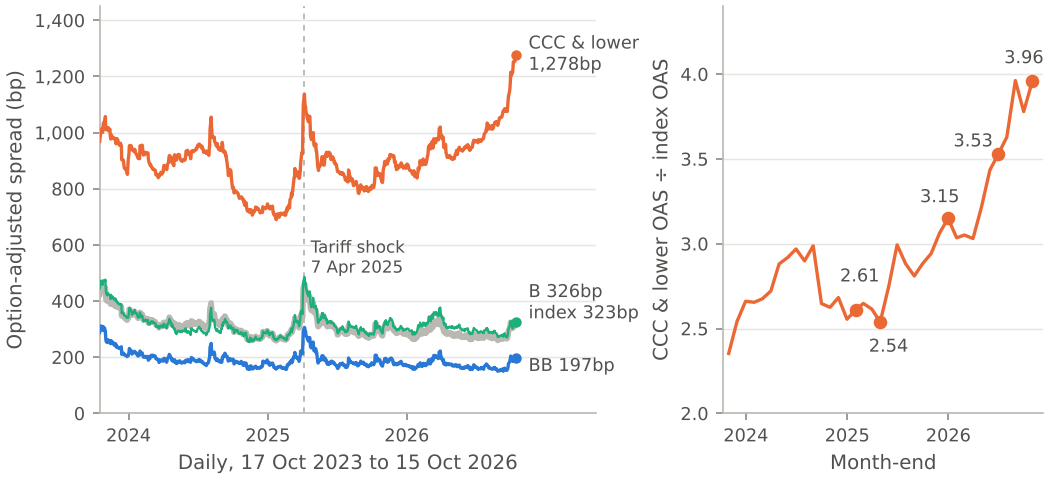
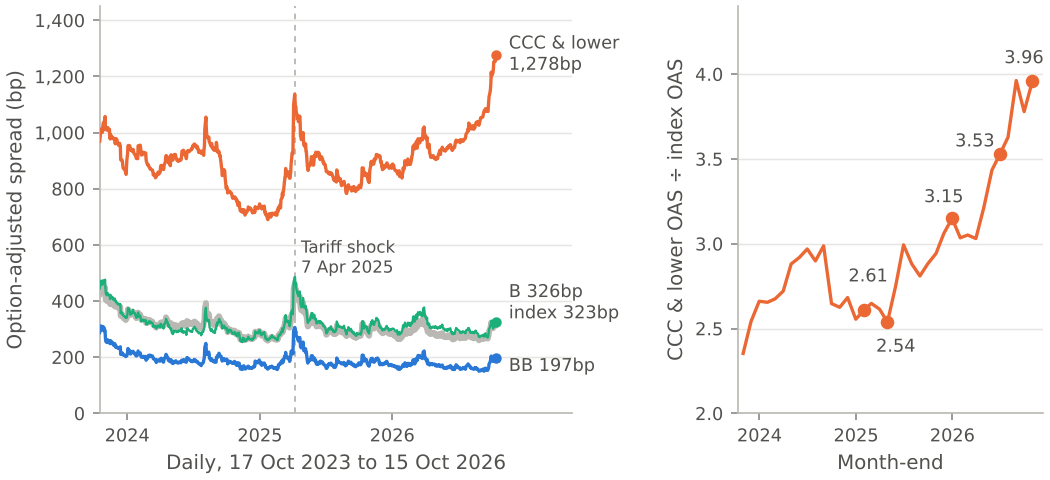
Research batch A complete; TOC proposals from research collected in state/toc_proposals_ed2.md
Claude-Session: https://claude.ai/code/session_01PHHQVL5vNoxjdDFeTkxsPq

diff --git a/tools/figures/ch11.py b/tools/figures/ch11.py
@@ -307,6 +307,7 @@ def fig_tier_oas():
         assert abs(ratio[k].iloc[0] - v) < 0.006, (k, ratio[k].iloc[0], v)
 
     fig, (a, b) = new_figure("wide", ncols=2, gridspec_kw={"width_ratios": [1.55, 1]})
+    fig.get_layout_engine().set(wspace=0.09)
 
     # left: daily OAS by tier
     a.plot(df.index, df.HY, color=NEUTRAL, linewidth=2.8, zorder=2)

diff --git a/book_src/08_ch08b_the_risk_model_and_the_limit_sheet.md b/book_src/08_ch08b_the_risk_model_and_the_limit_sheet.md
@@ -298,3 +298,83 @@ The backtest runs bucket by bucket as well as for the whole book: realized volat
 A failing backtest licenses a change, and the change has a procedure: a written finding, a challenger model run in shadow beside the champion, a comparison on data the challenger was not tuned on, and a promotion through the same rings and canaries that §27.8 uses for code. What the failure does not license is retuning the model in the drawdown that produced the exceptions. Two years earlier, in the week Larkspur Foam's loan fell to 84 on the drop-down headline (Chapter 13), a junior quant at the desk had shortened the EWMA half-life from 60 days to 15 on the third day of losses, "to make it more responsive." The re-run backtest was immaculate. It had been tuned on the very exceptions it was then graded on, which is look-ahead in a lab coat, and the shorter half-life spent the following quiet quarter overstating risk by 40% and squeezing the desk out of positions it would have been paid to hold. Mags's verdict at the time was the shortest model review in the desk's history: "You wrote the exam and then you graded it."
 
 *Builds on:* §7-B.2 (likelihood ratios), §7-B.5 (EWMA half-lives), §27.8 (deployment discipline). *Used in:* §8B.9 (the backtest line on the limit sheet), §28.9 (the dashboard's model-health panel).
+
+## 8B.9 The Limit Sheet
+
+The risk committee met on the first Monday of November, and Mags prepared Theo for it the way she once prepared junior lawyers for a confirmation hearing: by telling him about the worst one she knew.
+
+### Case Study: The Whale and the Five Limits (JPMorgan's Chief Investment Office, 2012)
+
+"Everything you need to know about limit sheets," she said, "is in a Senate report about a bank that had a perfectly good one."
+
+The book was the Synthetic Credit Portfolio of JPMorgan Chase's Chief Investment Office, a portfolio of credit index and tranche positions originally meant to hedge the bank's credit exposure. In the first quarter of 2012 its traders tripled its net notional, from \$51bn to \$157bn, including at least \$62bn in a US investment-grade credit index, \$71bn in a European investment-grade index and \$22bn in a US high-yield index (Senate Permanent Subcommittee on Investigations, *JPMorgan Chase Whale Trades: A Case History of Derivatives Risks and Abuses*, staff report, 15 Mar 2013, PDF p.12). The portfolio had five risk metrics with limits or advisories attached: VaR, CS01, a credit-spread-widening-of-10% measure called CSW10%, stress-loss limits and stop-loss advisories. In the first three months of the year it breached all five, and from 1 January to 30 April the limits and advisories were breached more than 330 times (PDF p.15).
+
+Theo, who had been reading this chapter's drafts for a month, recognized every line. CS01 is his CS01 ladder. CSW10% is his DTS cell limit, a loss for a 10% relative widening, under another name. The stress limit is his stress library. Only the jump line is missing, and the report notes something close to it: concentration limits, "commonplace for the same instruments" at the bank's investment bank, were absent at the CIO (PDF p.15).
+
+"So the sheet was fine," he said. "What went wrong?"
+
+"Everything that happens *after* the sheet," Mags said.
+
+In January 2012 the portfolio breached the VaR limit of both the CIO and the bank as a whole for four days, a breach reported to the bank's most senior management (PDF p.15). While it was in breach, an alternative VaR model was "hurriedly adopted," approved on 30 January, and it immediately cut the portfolio's VaR by 50%, from \$132mm to \$66mm (PDF pp.16, 188). The breach ended. The positions did not. A recommendation had been made to lower the CIO's VaR limit from \$95mm to \$70mm when the new model went live; the report found that it was not done, and summarized the result in a sentence Mags read aloud: "rather than remove the offending credit derivative positions to reduce the amount of risk in the SCP, JPMorgan Chase removed the brakes instead" (PDF p.191). The new model, it later emerged, ran on spreadsheets fed by hand and contained "calculation errors involving hazard rates and correlation estimates that improperly lowered the VaR results" (PDF p.194). On 10 May the bank revoked it and reinstated the old one, and the revised first-quarter VaR came out at \$129mm, twice what had first been reported (PDF pp.16, 21).
+
+The CS01 limit had a different fate. The portfolio exceeded it by 100% in January, by 270% in early February and by more than 1,000% by mid-April (PDF p.15). By 30 March it had been in breach for 59 trading days. On 17 April an automated end-of-day notice read, in full, "MtM cs bpv limit is in excession by 1074% and has been in excession for 71 days" (PDF p.211). A risk measure called the Comprehensive Risk Measure had warned in February of a possible \$6.3bn loss over a year; it was dismissed internally as "garbage" (PDF p.15). The report's verdict on the breaches as a group was that they "were largely ignored or ended by raising the relevant risk limit" (PDF p.15). The portfolio lost at least \$6.2bn in 2012 (PDF p.12).
+
+Kaz read the hazard-rate sentence twice. "They put the jump inside the spreadsheet," they said. "Hazards and correlations, hand-keyed, feeding a VaR. No separate layer, no backtest on the new model before it went live, and it was swapped in during the breach it was supposed to measure." They looked at the Larkspur half-life note still pinned above their monitor. "That's §8B.8 with ten figures."
+
+Ines put it as a hand. "Five tells, all showing, for four months. Nobody at the table folded. They changed the deck instead."
+
+What the desk took from the case is less a list of prohibitions than a description of what a limit is for. A limit is a pre-agreed conversation: it says which number, crossing which line, obliges which person to explain what to whom, by when. Its value is entirely in the conversation happening. A model change that halves the risk number is a limit change, whether or not anyone edits the limit, and so it goes to the same committee. A breach that lasts seventy-one days has stopped being a breach and become the new limit, decided by nobody. And an override is a loan of risk capacity, which is why on Theo's desk every override has a size, a reason, a name and an expiry date, and a second override of the same line in a quarter puts the line itself on the committee's agenda.
+
+### The sheet
+
+Here is the sheet Theo's desk runs, with the soft and hard thresholds that turn exposures into conversations *(illustrative levels for a \$400mm high-yield book)*.
+
+| Line | Measured as | Soft | Hard |
+| :--- | :--- | ---: | ---: |
+| DTS, each rating × sector cell | loss for a 10% relative widening of the cell, \$mm | 1.2 | 1.5 |
+| CS01 ladder (0–3y, 3–7y, 7y+) | \$k per bp of spread | 60 / 90 / 70 | 80 / 120 / 90 |
+| Key-rate DV01, net of hedges (2, 5, 10, 30y) | \$k per bp; a band around the target | ±15 | ±25 |
+| Issuer JTD, top ten | \$mm, by issuer rating | B 7.0, CCC 4.0 | B 9.0, CCC 5.5 |
+| ES 99%, 1-day and 10-day | \$mm, on the mixture (§8B.6) | 2.5 / 9.0 | 3.0 / 11.0 |
+| Stress loss | worst library scenario, Gaussian plus jump, \$mm | 15 | 20 |
+| Days to liquidate (§28.5) | days at 10% of average daily volume | 5 | 10 |
+| Share of an issue | % of the issue outstanding | 7.5% | 10% |
+| Backtest exceptions | count in 250 days at 99% | 5 | 10 |
+
+*Table 8-B.4. The limit sheet. A soft breach starts a written explanation from the PM by noon; a hard breach requires a reduction by the close or a written override, with an expiry date, from the risk function's delegated approver; anything open for three days escalates to the desk head and the chief risk officer's office.*
+
+Two rows carry ideas from earlier in the book. *Days to liquidate* is the 13-day model to the 13-week model's sibling, as Theo put it when he added a second file to the USB stick: a position of \$q$ in a bond that trades $\text{ADV}$ a day, sold at participation $\kappa$, takes $q/(\kappa\,\text{ADV})$ days to exit, and the limit bounds the forced-seller problem of §16.2 from the desk's own side. *Share of an issue* is the concentration limit the Whale did not have, and it bounds something no volatility measures: whether the desk *is* the market in a bond, in which case the mark is the desk's own opinion and the exit is a negotiation.
+
+ROBO had been asked, early in the project, to "set sensible limits." It set every line to the book's current exposure plus one dollar, which was sensible in the sense that the book was inside every limit at the moment of setting, and put the desk in breach on eleven lines by 9:32 a.m. the following day. The specification it got the second time, in §8B.11, says where each threshold comes from.
+
+The committee's first question that Monday was the one every risk committee asks. "Why is the ten-day ES 11% higher than on Friday, when the desk sold bonds on Friday?" Theo had the answer, because the model's change report had produced it at 7:30: on Friday evening one rating agency had completed a sector review of building products and downgraded twelve issuers, and the desk's rating rule (the middle of three agency ratings) had moved forty bonds from the B cells to the CCC cells. Every one of them now had a larger cell sensitivity, a higher idiosyncratic bucket and a tighter JTD limit. Nothing had traded. The book was riskier because the same bonds now meant something different, which is the DTS loading of §8B.2 working exactly as designed. The committee chair wrote one word on her pad, which Theo later learned was *good*.
+
+![Figure 8-B.3: Tuesday's risk report grown into the limit sheet: each line's exposure against its soft and hard thresholds, with the three breaches of the cold open marked and the forty-bond migration shown as the before-and-after change in the CCC cells. Illustrative.](assets/figures/ch08b_limit_sheet.png)
+
+*Builds on:* §4B.5 (CS01 and DV01), §16.2 (forced sellers), §21.4 (the OC test as a limit), §28.5 (days-to-liquidate). *Used in:* §28.9 (the dashboard's risk-versus-limits panel), Chapter 3-B (the 7:30 risk pack), Chapter 8-C.
+
+## 8B.10 When to Apply It, and When It Breaks
+
+A factor risk model is at its best on ordinary days in a book with many issuers, where its job is to say where the risk is and to stop the desk from building a concentration by accident. It is at its worst on the days it is most needed, and a seasoned risk manager reads it with four suspicions.
+
+The first is that correlations are regimes, not constants. The rate–spread correlation $\rho_{y,s}$ changed sign twice between 2021 and 2025 (§8.2, §8.7), and in April 2025 it changed sign twice in seven sessions. The model therefore takes $\rho_{y,s}$ as a regime input from the hidden Markov model of §12.4 rather than as one estimated number; where §12.5's covariance holds the rate–spread correlation at zero for a multi-asset book, this engine supplies the regime value instead. The second is that correlations rise together in exactly the stress the model was built for, which is why the stress library shocks factors jointly rather than trusting the covariance to do it.
+
+> **View From Another Seat.** *The dealer in March 2020.* A dealer's risk system sees the same failure from the other side of the trade. Describing March 2020 to analysts, Morgan Stanley's then chief financial officer said: "Historical relationships broke down and liquidity dried up. Clients reacted by reducing risk and raising cash" (Morgan Stanley first-quarter 2020 earnings call, 16 Apr 2020). For a dealer, broken relationships mean hedges that do not hedge and inventory that cannot be sold at the mark; for a buy-side desk, the same sentence means that the covariance estimated on calm years is a description of a market that no longer exists until the regime passes.
+
+The third suspicion is about inputs. Stale marks understate volatility, because a moving average moves less than the thing it averages, and the de-smoothing of §8.5 and §12.5 is part of the model, not an option. And the model is only as good as the security master (§27.3) and the corporate-actions feed (Appendix B, §B.16): a bond that was exchanged, tendered or called and is still in the master at its old terms will carry a loading, a DTS and a JTD for a claim that no longer exists.
+
+The fourth is numerical. A factor covariance with sixty factors can be nearly singular, and an optimizer fed such a matrix will find enormous positions that the matrix believes are riskless.
+
+> **Math, Gently.** *The condition number: how close a matrix is to dividing by zero.* A covariance matrix stretches some directions and squashes others; the condition number is the ratio of its largest stretch to its smallest. A value of 10 means every direction is roughly equally well measured. A value of 10 million means some combination of factors looks almost riskless, usually because the data cannot tell two factors apart, and anything that inverts the matrix will lean on that combination hard. Tiny example: two factors with correlation 0.999 give a two-by-two correlation matrix with condition number $(1+0.999)/(1-0.999) \approx 2{,}000$. The engine raises an alarm above a threshold and shrinks harder (§7-B.5).
+
+Finally, the hedges themselves have a band. A KRD or CDX hedge that is rebalanced on every wiggle pays the bid–offer all day, and one that is never rebalanced lets the mismatch become risk. If the mismatch $x$ drifts like a random walk with variance rate $s^2$, the desk pays $c$ per unit traded and charges itself $\tfrac{\gamma}{2}x^2$ per unit time for holding the mismatch, the best policy is to leave $x$ alone inside a band $[-b, b]$ and trade only at its edges. Inside the band the mismatch spends equal time everywhere, so its average squared size is $b^2/3$; pushing it back at the edges costs about $c\,s^2/(2b)$ per unit time. Minimizing $\gamma b^2/6 + c\,s^2/(2b)$ gives
+
+$$
+b^{*} = \left(\frac{3\,c\,s^{2}}{2\,\gamma}\right)^{1/3}.
+$$
+
+Since $\gamma$ is risk aversion times the variance of the factor being hedged, costly hedges get wide bands and hedges against volatile factors get narrow ones, and both only by the cube root: halving the cost narrows the band by about a fifth. That is the band in the KRD row of Table 8-B.4, and the derivation in hedge-matrix form belongs with §8.6.
+
+> **Trend Watch.** *The volume inputs moved in 2026.* A liquidity factor built from trading volumes rests on series that changed definition this year. In its second-quarter 2026 release of 30 July 2026, published as ICE agreed to acquire it for \$167 a share in cash (an equity value of about \$6.0bn), MarketAxess said it was "suspending its practice of issuing monthly volumes press releases" (MarketAxess Q2-2026 release, pp. 4–5, 9; ICE 8-K, Exhibit 99.1). FINRA's affiliate-principal indicator, voluntary from 31 August 2026 and mandatory from 2 August 2027, suppresses the inter-affiliate leg of qualifying trades from dissemination (FINRA Regulatory Notice 26-16, 26 Aug 2026); FINRA's own baseline put such trades at up to about 5.7% of 2025 transactions, counted by trades rather than dollars (SR-FINRA-2026-009, pp. 19–21). Tradeweb's September 2026 report noted that the change lowered reported US high-grade TRACE volumes and that prior periods were not restated. *What it means for the desk:* any volume-based liquidity factor or days-to-liquidate input needs a structural-break dummy at 31 August 2026, and platform series cannot be spliced across it.
+
+*Builds on:* §8.2, §8.6, §8.7, §12.4–§12.5, §27.3, Appendix B §B.16. *Used in:* §9.8 (the optimizer's covariance guard), §12.5.

diff --git a/state/toc_proposals_ed2.md b/state/toc_proposals_ed2.md
@@ -2,3 +2,102 @@
 
 Collected from the research agents' structured results. Nothing here is in the TOC yet; the edition planner decides.
 
+
+## From `case_lmt_private_and_european_2024_2026.md`
+
+- Ch 13b (Autopsy Room): lead with Altice France as a CDS Determinations Committee docket diary (27 May, 9 Jun, 25 Jun, 2 Jul, 27 Aug 2025) and Thames Water (18 Feb sanction, 17 Mar appeal, KKR exit, LVW, Moody's Ca); one-page forum exhibits for Atos and Fossil
+- Ch 17b: new section 'Cross-holder mark dispersion as a feature' built on the Pluralsight ARCC/OBDC/KBRA mark tables, with a code box for parsing 10-Q schedules of investments; Zayo as the 'good amend-and-extend' control
+- Ch 14: new section 'The re-default clock after a restructuring' (Altice at 5.3x post-plan, Pluralsight re-cut, Thames on RP2), plus the pact-to-close latency table (2.6 to 18.6 months, median 4.5)
+- Ch 23: Wolfspeed as a convert/equity/secured-note case (60-cent convert, converts take about 95% of equity, 0.17 per old share)
+- New chapter or long section 'The Forum Menu': French two-thirds-by-value classes vs English Part 26A 75% by value without a numerosity test vs US class voting, using Fossil, Atos, Altice and Thames
+- New box on side payments (lock-up fees, early-bird premia, backstop premia) as observable model inputs, and a utility-credit box on Thames (administration as the relevant alternative; political hazard)
+
+## From `case_courts_as_regime_variables.md`
+
+- Ch 14-B: The Docket as a Time Series (ruling calendars, venue and remedy, lag distribution, Hamilton-filter jump priors, event-study design, docket-data pipeline)
+- Ch 13 new section: The Legal-Token Regime Map (undefined 'open market purchase' vs bare 'purchase'; 'directly' qualifier; 'effect of' vote tests; Required Lender register definitions; textual amendment vs economic effect)
+- Ch 13-B new section: The Antitrust Frontier (Optimum S.D.N.Y. 1:25-cv-09785; Selecta S.D.N.Y. 1:25-cv-08956; Sherman s.1 per se vs rule of reason; Sharon Steel/United Airlines vs Catalano)
+- Ch 16 new sections: Backstop Equal-Treatment After ConvergeOne (s.1123(a)(4), LaSalle market test) and Release Consent After Purdue (zero-recovery classes, opt-in vs opt-out, s.363(m) escape hatch)
+- App D: LMT Case Docket and Regime-Switch Calendar (Table 2 plus pending dates: 5th Cir. Wesco/ConvergeOne/Container Store No. 26-20166, 2d Cir. GOL/Buffalo, Optimum and Selecta MTDs, Thames RP2)
+- App B data note: CourtListener anonymous search API limits (about 125 calls/day), docket-entry endpoints need login, nycourts.gov blocks automated fetches
+- Ch 28 section: Excluded-claim carry sizing (litigation-asset valuation after the Serta remand)
+
+## From `trend_re_default_and_recovery_dataset.md`
+
+- The re-default clock (section in Ch 14): time-to-failure shortened from about 2.5-3.5 years to under one year for the 2023 cohort; reconcile the Moody's, S&P and Roe-Rotaru moments
+- Default is a state, not an event (section in Ch 5): multi-state labels and DE-inclusive vs DE-exclusive PD targets, with the Moody's 5.8% vs 2.1% gap as the teaching case
+- The LME ledger (appendix entry in App B, Data and API Atlas): row schema, moments table, open sources, LCD DE-inclusive series from Dec 2016
+- Ledger-row box at the end of each Autopsy Room case (Ch 13b): dated row with participation, outcome, recovery and months-to-filing
+- An LME-propensity screen for the defensive HY sleeve (section in Ch 11): contract tokens, PIK share, coverage, Caa maturities, co-op coverage
+- Optional short Ch 14b, The unresolved cohort: survival-analysis and right-censoring primer for the 2024-26 vintages
+
+## From `trend_listed_credit_futures_and_index_microstructure.md`
+
+- Ch 10-B section 'Four exchanges, four index philosophies' (ETF-holdings Cboe, Bloomberg liquid CME/Eurex, MarketAxess-score ICE): index design as microstructure; placement Ch 10-B opening
+- Ch 10-B section 'Volume is not liquidity': turnover, open interest, block share and quoted width, with the CME 0.76-to-0.16 turnover swing and the unexplained 2023 Cboe volume collapse as worked cases; placement Ch 10-B middle
+- Ch 10-B section 'Reading the CFTC file': first positioning dataset for credit futures (TFF dataset gpe5-46if), including the reclassification-break problem; placement Ch 10-B before the trend-sleeve discussion, cross-referenced from App C
+- Ch 8 box 'The hedge menu for IDO': CDX HY, IBHY, HYB, DHY and HYG compared on DTS match, basis noise and margin, and the duration-hedged index as a rule-run rate hedge with a measurable residual; placement Ch 8 hedging-matrix section
+- Ch 20-B section 'The index close as a single point of failure': cash settlement, TAIC/BTIC/EFP-I and the roughly 19bp close distortion; placement Ch 20-B (basket triangle)
+- Ch 10-B section 'CDX roll weeks and the intrinsic basis': roll-week concentration, series basis, entry/exit effects as the reference case for the unpublished futures-versus-CDX basis; placement Ch 10-B closing, with an optional split into a short standalone chapter if 10-B grows past about 12,000 words
+- App B and App C additions: dated launch entries (CME 2024-06-17, Eurex USD 2024-09, ICE 2024-12-12), incentive programmes (Eurex 2025-08-01, CBOT 2026-10-01) and data-atlas rows for Cboe cfevoloi.csv and CFTC dataset gpe5-46if
+
+## From `trend_private_credit_marks_and_redemptions_2025_2026.md`
+
+- One Loan, Seven Prices: the Medallia Ledger (cold-open scene plus mark-path figure). The only primary-source cross-holder mark panel found. Placement: opens 17_ch17b_marking_the_unmarked_private_credit_lmes.
+- Three Prices for the Same Loans: OBDC, OBDC II and the Par Sale. Merger, termination, par sale and 68-cent unit bid within five months, all in public filings. Placement: Ch 17-B second scene, with a one-sentence echo in Ch 17.
+- The Five Percent Gate as a Queue. Request, fill and backlog data for ten funds, the resubmission loop and the five sponsor remedies. Placement: Ch 17-B core section, figure in App C, or a separate Ch 17-C if 17-B passes 11k words.
+- Which Default? The Ladder from 2.5% to 19%. Same asset class, six definitions, tied to the LMT-era default menu. Placement: new section in Ch 14, cross-referenced from Ch 17-B.
+- The Double Pledge: Tricolor, First Brands, MFS. Three dated collateral-fraud cases the market read as one asset-class event. Placement: case module in Ch 17-B, with a sentence in Ch 12-B.
+- Marks, Pricing and the Shadow Book (Apollo daily pricing, ICE IDs, PRIV firm bids, PIMCO's rebuttal). Placement: closing section of Ch 17-B, plus a PRIV box in Ch 20.
+- A private sleeve with a queue, for MAC optimizers. Liquidity tiering of a sleeve whose exit is a pro rata fill. Placement: Ch 12 section.
+- Data entries: EDGAR full-text search by borrower, Z.1 codes, Schedule TO-I/A, FRED, N-PORT. Placement: App B.
+- Dated rows: 5 Nov 2025, 18 Feb 2026, 7 Apr 2026, Q1-Q3 request ratios, 1 Oct 2026, 16 Oct 2026. Placement: App C trend-tracker spine.
+
+## From `trend_part_v_market_structure_2026.md`
+
+- Ch 2 new section 'The Non-Bank Question: What TRACE Can and Cannot Tell You' (FINRA concentration and block-quoter counts, Jane Street BB notes, Citadel 14.2% unverified)
+- Ch 22 new section 'When the Denominator Moves' (record-day definitions, TRACE affiliate prints, series breaks at 2026-07-30 and 2026-08-31); feeds held candidate 22-B
+- Ch 18-B new section 'Stress-Day Response Counts' (13.2 to 6.6 to 11.3 prices per RFQ, Tradability, stress-parameter switch)
+- New chapter Ch 2-B 'The Platform Wars: ICE-MarketAxess, Tradeweb, Trumid and the Fee Curve' (TREND)
+- Ch 15 worked case 'Regulatory Spreads of the Exchange: ICE-MarketAxess' (HSR withdrawal and refiling, 2.5% vs 5.5% break fees, outside dates)
+- Ch 28 section 'When the Robots Switch Off: The Stress Execution Playbook' (3x spread, halved response count, 4-14 week half-life)
+- App D additions: CDS clearing shares (index vs single-name), Treasury clearing dates, EU/UK/CH T+1 calendar
+- App C dated rows: 2025-04-09, 2026-03-19, 2026-06-22, 2026-07-30, 2026-08-31, 2026-12-31, 2027-10-11
+
+## From `case_carvana_svb_wolfspeed_capital_structure.md`
+
+- Ch 23: add section '23.9 The hedge that is a short call' (Carvana squeeze lens with the break-even hedge-ratio h* table, plus Wolfspeed old equity), and a Wolfspeed strike-ladder exhibit ($12.23, $18.35, $20.14, $23.95 against the $22.02 plan value) answering Exercise 5 with the parity arithmetic
+- Ch 6: add section '6.4.5 Holdco as a call on a call' (holdco-only Merton default probability of about 1e-7 versus a bank-level model, with the $40bn one-day deposit jump); fix the uninsured-deposit share to say US offices only (87.5%) versus the Fed's 94%
+- Ch 15: add a box on the CFIUS 'Distribution Event' as a digital option (871,287 shares, about $15mm) and the Wolfspeed rights offering at 91.3242 with its backstop split
+- Ch 13-B: Wolfspeed Docket Diary from sections 3.1 and 3.4 (28 Mar 2025 failed exchange, day-70 confirmation); Carvana as a one-paragraph liability-management cameo
+- Ch 9-B: ticker reuse (Wolfspeed old and new share lines, spurious +1,726% splice) as a corporate-action filter case
+- Ch 25: the 4.345% versus 4.435% coupon mismatch inside one SVB 10-K, and 8-K Items 1.01, 1.03, 2.04, 3.02 as parse targets
+- Ch 16: the 0.008352 / 0.013920 post-reorg stub exchange ratios
+- Ch 28: scenario-sized hedges and a squeeze kill-switch (short interest above 40% of float plus issuer at-the-market capacity)
+- App C rows: 14 Aug 2026 (Carvana Term Loan B), 31 Aug 2026 (SVB trust loses $1.71bn claim against the FDIC), 7 Oct 2026 (Wolfspeed conditional government loan)
+- No new chapter justified: the three cases fit Chapters 6, 15 and 23
+
+## From `trend_insurance_capital_forced_flow.md`
+
+- Section 22.x "The Customer's Regulator: NAIC Designations, CLO Factors and the Calendar" (Ch 22, promoted expansion)
+- Story section "The Annuity Aisle" as the lead scene of 22.x (PE-owned insurers' annuity share capture, 8.5% to 18%, shown as a capital table becoming a product price)
+- Chapter 22-B "Insurance Capital, Private Letter Ratings and the Offshore Loop" (Edition 3 candidate)
+- Box "The 4% Line: A Covenant You Can Code" (Ch 21, cross-reference Ch 12-B)
+- Section 17.x "Who Rates the Private Rating?" (Ch 17-B)
+- Forced-seller graph edge: insurer to CLO BBB/BB and private IG to public BBB/BB (Ch 1) and insurer seat card (Ch 4-C)
+- Exercise "Price the thin tranche" (Ch 21, solutions in App Z)
+- Appendices: App C dated rows, App B data sources, App D NAIC category to notch map with bond and CLO C-1 factors and reinsurance structures
+
+## From `case_manufactured_credit_events.md`
+
+- Ch 24 s24.8.2: rebuild the Hovnanian Docket Diary as a scene, and correct the Windstream auction date (3 Apr 2019), the $170.2mm all-holder tender, the unconfirmed 20 Apr 2018 DC refusal, and the K&L $700mm maturities claim
+- Ch 24 new s24.8.5: Sears, an auction that moved 24 points (stage-one midpoints, the 7-8 loan vote, the External Review, 55.625 to 79.875)
+- Ch 24 new s24.8.6: Altice France, when the deliverables are locked up (the 300/5 failure at the Holding, Lock-up Settlement Block at the OpCo)
+- Ch 24 s24.6: add the official auction-results table (iHeart, Codere, Sears, Windstream, Altice France) and the one-sided cap asymmetry
+- New chapter 24b 'Manufactured, Disputed and Locked-Up' (about 6,000 words) built on four scenes: the 2 Jan 2018 risk meeting, the 17 Jan 2019 auction afternoon, the ten days between ruling and filing at Windstream, and the 9 Sep 2025 cut-off
+- App D D.5-D.7: results ledger, 300/5 rule text, deliverable characteristics by Definitions vintage, and the NTCE text with Exhibit F indicators, stated as applied by default on cleared trades since 27 Jan 2020
+- Ch 25: Windstream docket state machine plus a manufacture-risk screen (payment/cash ratio, related-party holder, payment bar, deliverable price dispersion)
+- Ch 3 and Ch 13: use section 10 as the cleanest 'banker saw, quant missed' story
+- Ch 5-6: Math, Gently box on payout as one minus the minimum of deliverable prices and on exogenous versus endogenous default intensity
+- Ch 22: SEC/CFTC/FCA joint statement and the absence of an enforcement case as of Dec 2019
+- Ch 4c: protection seller (Solus), engineer (GSO) and DC-voting dealer as three seats

diff --git a/book_src/23_ch23_cross_asset_convexity_and_vol_surface.md b/book_src/23_ch23_cross_asset_convexity_and_vol_surface.md
@@ -528,12 +528,22 @@ where $r^{\text{xs}}$ is bond excess return over duration-matched Treasuries, $r
 
 **Podcasts**
 
-- *Bloomberg Odd Lots* (Joe Weisenthal and Tracy Alloway): episodes on the March 2023 bank failures, on Credit Suisse AT1s, and on convertible bonds. Search the show archive by topic; episode numbers are not given here.
-- *Flirting with Models* (Corey Hoffstein): conversations with volatility and convertible-arbitrage managers on carry, skew, and short-vol risk.
+- **Dan Davies On What Brought Down Silicon Valley Bank** (*Odd Lots*, Joe Weisenthal and Tracy Alloway with Dan Davies, March 14, 2023). Recorded within days of the run: why the bank's customer base "turned out to be so much more flighty than expected" and why it reached for yield, the setting for the contractual inversion in Case Study B (§23.8). https://omny.fm/shows/odd-lots/dan-davies-on-what-brought-down-silicon-valley-ban
+- **The Regulatory Blunder That Gave Us the Silicon Valley Bank Disaster** (*Odd Lots*, with Lev Menand of Columbia Law, March 16, 2023). Menand on "the defanging of bank supervisors" in the run-up; pair it with Davies, one explains the depositors and the other the supervisors (Case Study B, §23.8). https://omny.fm/shows/odd-lots/the-regulatory-blunder-that-gave-us-the-silicon-va
+- **Swiss AT1 Bond Carnage, Leisure Sector Risk** (*The Credit Edge*, Bloomberg Intelligence, March 23, 2023). Four days after the March 19 UBS takeover, which per the episode page "included pulling the pin on $17 billion" of AT1 CoCo bonds: a real-time account of the contractual inversion in Case Study C (§23.8). https://omny.fm/shows/the-credit-edge-by-bloomberg-intelligence/swiss-at1-bond-carnage-leisure-sector-risk
+- **Dean Curnutt - The Reflexivity of Equity Volatility (S6E16)** (*Flirting with Models*, Corey Hoffstein with Dean Curnutt of Macro Risk Advisors, September 11, 2023). Endogenous risk, reflexivity, crowding and options on variance across 1987, LTCM, 2008 and the XIV implosion; a second voice on the vol-targeting feedback loop of §23.1 and Exercise 1. https://www.flirtingwithmodels.com/episodes/l8s5fwO9IGb
+- **Kris Abdelmessih - Life Through a Volatility Lens (S7E10)** (*Flirting with Models*, Corey Hoffstein with Kris Abdelmessih, July 29, 2024). A former option-pit market maker who later ran a relative-value volatility book, on reading trades through payoffs and optionality; the options-desk view behind the put-surface fit (§23.4) and the spread Greeks (§23.5). https://www.flirtingwithmodels.com/episodes/EdhZsWMO5mh
+- No verified episode on convertible arbitrage or on capital-structure arbitrage was found for this chapter, so none is listed; Sections 23.6 and 23.7 rest on the papers below.
+
+**Talks and Reports**
+
+- **Applications of Option-Pricing Theory: Twenty-Five Years Later** (Robert C. Merton, Nobel Prize Lecture, December 9, 1997). The author of the structural model on what option-pricing theory had been applied to over twenty-five years; the primary-source opener for §23.1. https://www.nobelprize.org/prizes/economic-sciences/1997/merton/lecture/
+- **Initial Findings from Independent Review of Silicon Valley Bank** (Michelle W. Bowman, Federal Reserve Vice Chair for Supervision, September 18, 2026). Announces the first report of an independent review by Starling Advisory Group (seven findings, the first in a series) and frames the failure as having spread to Signature and First Republic; the newest primary source for Case Study B (§23.8), so read the report itself before quoting findings. https://www.federalreserve.gov/newsevents/speech/bowman20260918b.htm
+- **Report on the 2023 banking turmoil** (Basel Committee on Banking Supervision, October 5, 2023). The supervisors' assessment of causes, responses and initial lessons for SVB and Credit Suisse alike; the reference to cite beside both §23.8 case studies. https://www.bis.org/publications/report-2023-banking-turmoil
 
 **Practitioner Writing**
 
-- Matt Levine, *Money Stuff* (Bloomberg Opinion): the March 2023 columns on SVB's deposit run and on the Credit Suisse AT1 write-down, and his recurring explanations of capital-structure seniority.
+- Matt Levine, *Money Stuff* (Bloomberg Opinion): the March 2023 columns on SVB's deposit run and on the Credit Suisse AT1 write-down, and his recurring explanations of capital-structure seniority. No specific column is cited here: none is in the verified-item dossier for this chapter, and Bloomberg pages could not be fetched to confirm a title and date.
 - BIS *Quarterly Review*, June 2005, the overview and the box on the GM and Ford downgrades and CDS index tranches (pp.4–6).
 - Board of Governors of the Federal Reserve System, *Review of the Federal Reserve's Supervision and Regulation of Silicon Valley Bank* (April 28, 2023). Root: https://www.federalreserve.gov
 - FDIC press releases PR-23-016 (March 10, 2023, SVB) and PR-23-034 (May 1, 2023, First Republic). Root: https://www.fdic.gov

diff --git a/state/research/trend_figure_data_series.md b/state/research/trend_figure_data_series.md
@@ -41,6 +41,8 @@ Researcher run: 2026-10-18. Queue entry: state/research_queue_ed2.json -> trend_
 | 2025 FY | Morgan Stanley (via The DESK, 2026-02-19): capped US PT volume about $1.3tn in 2025 (+52%), PT 15% of corporate bond trading in 2025 against 11% in 2024, peak 17% in July 2025, 16% at end-2025; uncapped estimate about $1.8tn from $1.1tn; IG PT $1.1tn (+44%); HY PT +116%, record $56bn in Q4 2025, 18% of HY trading in December 2025 and 16% for the year | The DESK, "IG credit sees portfolio trading plateau while HY hits records" (2026-02-19) |
 | 2026 Q2 | Tradeweb Q2 2026: 19.0% share of fully electronic US HG TRACE (+101bp YoY) and 25.7% total HG share (-29bp); 8.5% fully electronic HY (+32bp) and 11.1% total HY (+44bp); US HG fully electronic ADV $8,672mm (+18.8%), HY fully electronic $1,202mm (+8.1%), European credit ADV $3,163mm (+23.4%); credit derivatives ADV +19.6% on "hedge fund and systematic account activity" | Tradeweb 8-K Ex-99.1 filed 2026-07-30 (tw-2026xq2xex991.htm, fetched 2026-10-18) |
 | 2023-05-15 | FINRA TRACE Fact Book 2025 (Feb 2026 PDF) timeline: portfolio-trade modifier effective 2023-05-15; Treasuries reportable from 2017-07-10; 144A dissemination from 2014-06-30. The Fact Book PDF is an index of online tables and does not carry a portfolio-trade share | FINRA TRACE Fact Book 2025 (PDF fetched 2026-10-18) |
+| 4Q22 to 2Q26 | Tradeweb share of fully electronic US HG TRACE, as first reported each quarter: 14.4% (4Q22), 13.3% (1Q23), 14.9% (2Q23), 16.6% (3Q23), 17.2% (4Q23), 17.6% (1Q24), 18.8% (2Q24), 17.7% (3Q24), 18.3% (4Q24), 18.0% (1Q25), 17.9% (2Q25), 18.6% (3Q25), 18.3% (4Q25), 17.7% (1Q26), 19.0% (2Q26); full-year 2023 HG 15.5%. The HG share has been flat in an 18-19% band for nine quarters | Tradeweb quarterly 8-K Ex-99.1, filings dated 2023-02-02 through 2026-07-30 (fifteen exhibits fetched and parsed 2026-10-18) |
+| 1Q22 to 2Q26 | Tradeweb share of fully electronic US HY TRACE: 7.1% (1Q22), 6.1% (1Q23), 6.2% (2Q23), 7.8% (3Q23), 6.7% (4Q23), 6.7% (1Q24), 7.6% (2Q24), 7.8% (3Q24), 7.9% (4Q24), 7.5% (1Q25), 8.2% (2Q25), 7.5% (3Q25), 8.1% (4Q25), 7.4% (1Q26), 8.5% (2Q26). Total (including electronically processed) share since 2025: HG 25.9 / 26.0 / 26.2 / 25.7 / 25.0 / 25.7% and HY 10.1 / 10.7 / 9.8 / 10.0 / 9.8 / 11.1% for 1Q25 to 2Q26 | Tradeweb quarterly 8-K Ex-99.1 (parsed 2026-10-18); 2Q25 restated by about 10bp in the 2Q26 release (CHECK) |
 <!-- ROWS-END -->
 
 ## 3. Narrative: drivers and the 2026-2028 outlook
